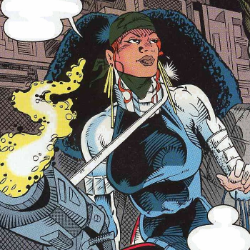
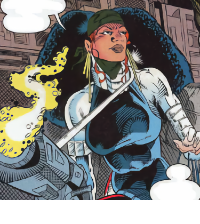
v1.0.2

diff --git a/CHANGELOG.md b/CHANGELOG.md
@@ -7,6 +7,9 @@ and this project adheres to [Semantic Versioning](https://semver.org/spec/v2.0.0
 
 ## [Unreleased]
 
+## [1.0.2][] - 2021-03-30
+- Fix banner dimensions
+
 ## [1.0.1][] - 2021-03-30
 - New banner image
 
@@ -24,7 +27,8 @@ and this project adheres to [Semantic Versioning](https://semver.org/spec/v2.0.0
 ## [0.1.0][] - 2021-01-24
 - Initial release
 
-[unreleased]: https://github.com/upsect/recoil/compare/v1.0.1...HEAD
+[unreleased]: https://github.com/upsect/recoil/compare/v1.0.2...HEAD
+[1.0.1]: https://github.com/upsect/recoil/compare/v1.0.1...v1.0.2
 [1.0.1]: https://github.com/upsect/recoil/compare/v1.0.0...v1.0.1
 [1.0.0]: https://github.com/upsect/recoil/compare/v0.1.2...v1.0.0
 [0.1.2]: https://github.com/upsect/recoil/compare/v0.1.1...v0.1.2
